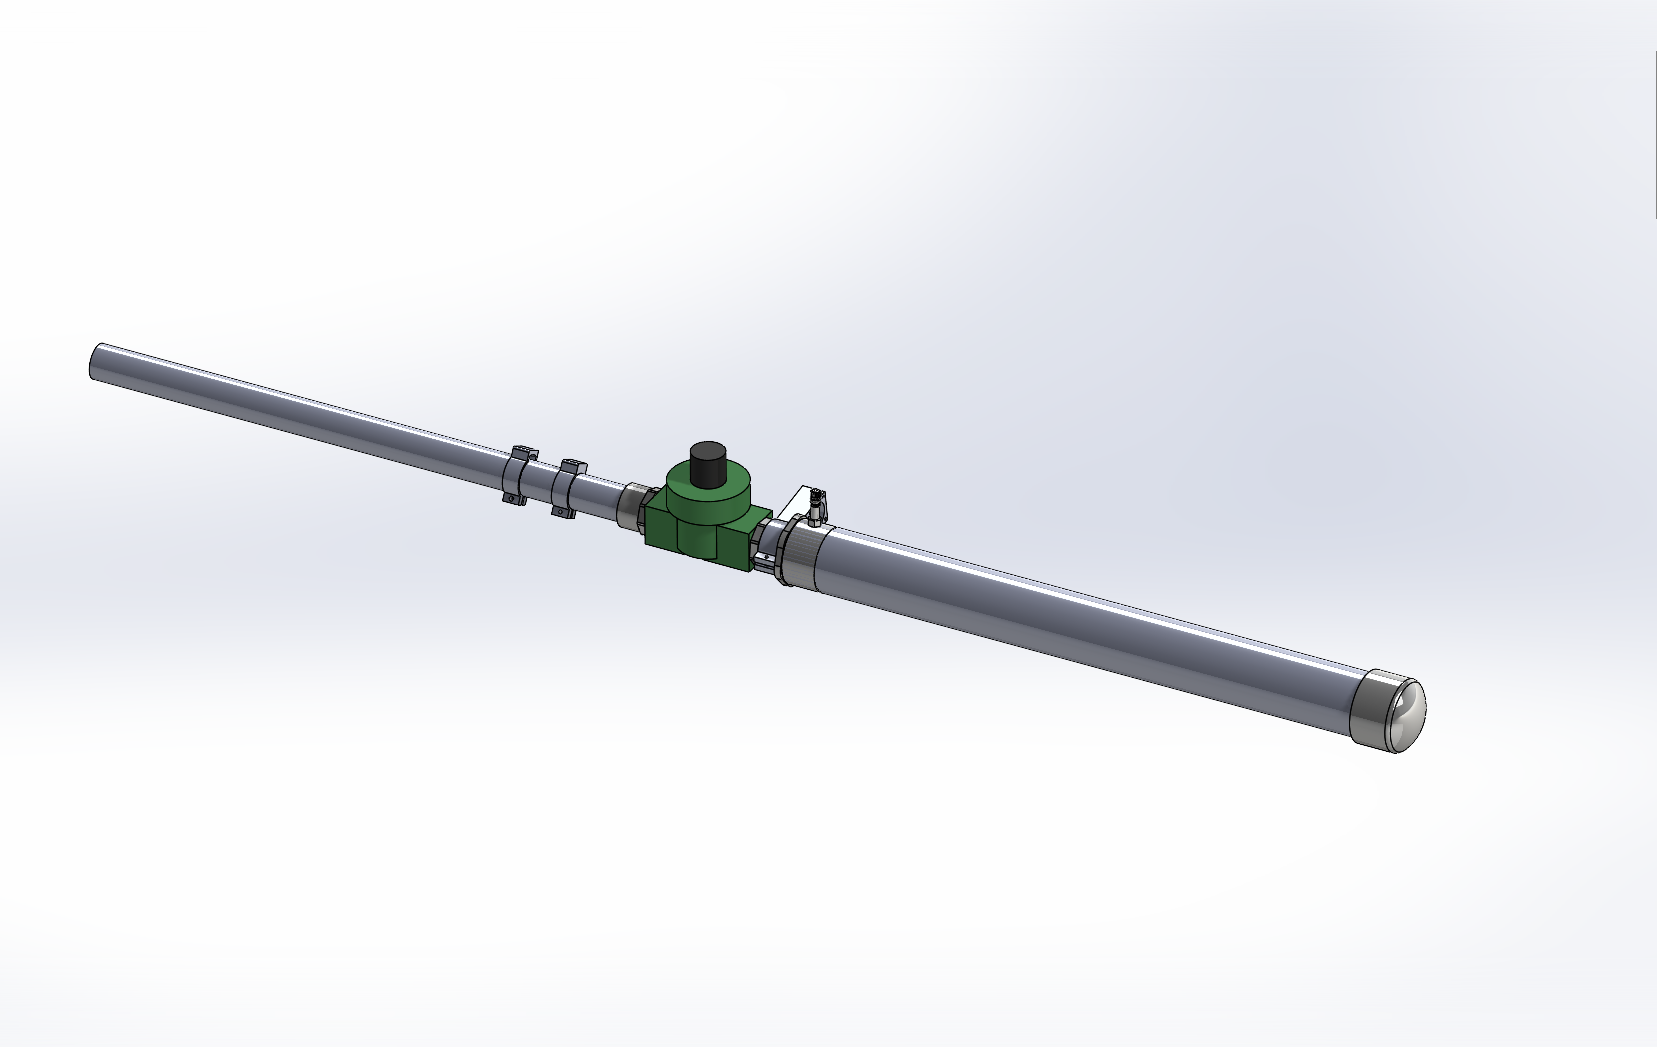
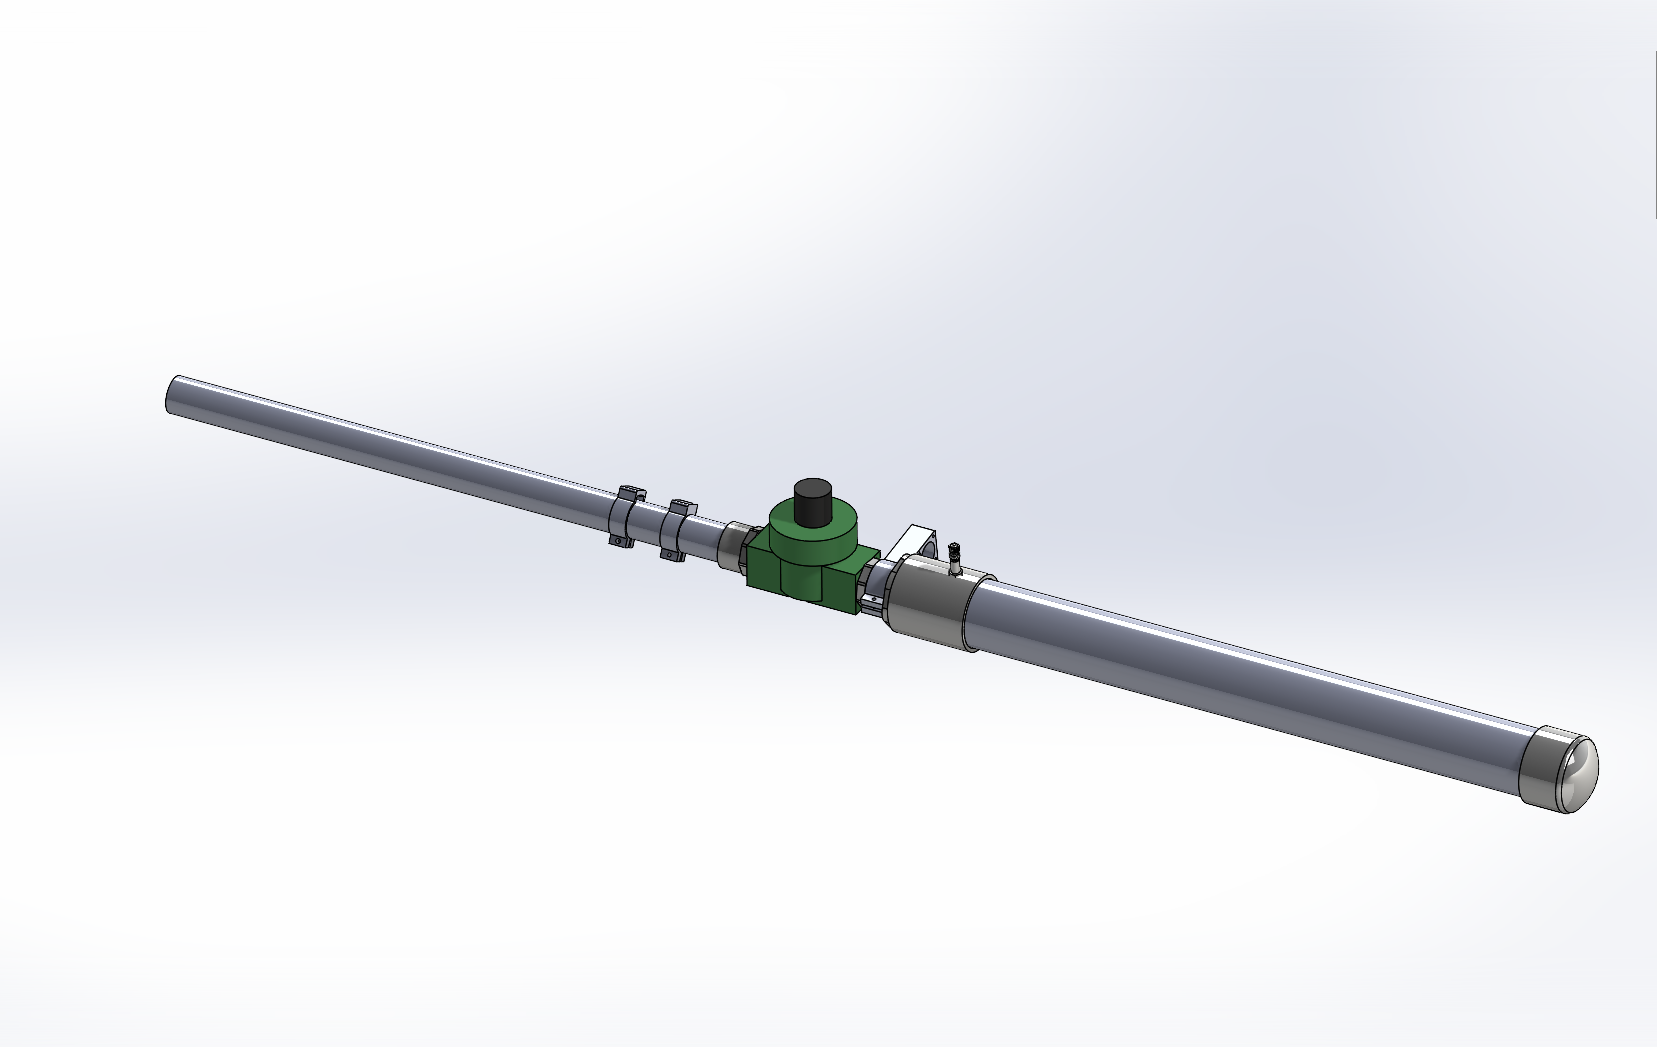
edit5

Changed region(s): [[0.0308, 0.3362, 0.9849, 0.7947]]

diff --git a/README.md b/README.md
@@ -20,8 +20,18 @@ This repository contains a detailed description of construction, plus Solidworks
 
 ![Graph](img/Explode.png)
 
-| | | |
-| :---: | --- | --- |
-| 1 | 1" PVC pipe, Sch 40, 20" | Home Depot, etc.  $2.96 |
-| 9 | 2" PVC pipe, Sch 40, 24" | Home Depot, etc.  $4.94 |
+| | Qty | Desc | Source |
+| :---: | :---: | --- | --- |
+| 1 | 20in | 1" PVC pipe, Sch 40 | Home Depot, etc.  $2.96 |
+| 2 | 2 | Reel clamp | Reel_Clamp.STL |
+| 3 | 2 | PVC Male Adapter, MNPT x Socket, 1 in | Zoro G5275094 $0.67 |
+| 4 | 1 | Orbit 57461 1" FPT Jar Top Automatic Sprinkler Valve | Amazon $16.48 |
+| 5 | 2in | 1" PVC pipe, Sch 40 |  |
+| 6 | 1 | Connector clamp | Connector_Clamp.STL |
+| 7 | 1 | GASHER 1/8" NPT Tank Valve, Brass | Amazon $6.95 (pkg of 2) |
+| 8 | 1 | PVC Reducing Bushing, Spigot x Socket, 2 in x 1 in Pipe Size | Zoro G5278752 $1.45 |
+| 9 | 1 | PVC Coupling, Socket x Socket, 2 in | Zoro G5276433 $2.25 |
+| 10 | 24in | 2" PVC pipe, Sch 40 | Home Depot, etc.  $4.94 |
+| 11 | 1 | PVC Cap, Socket, 2 in Pipe Size | Zoro G5275225 $1.49 |
+
 
